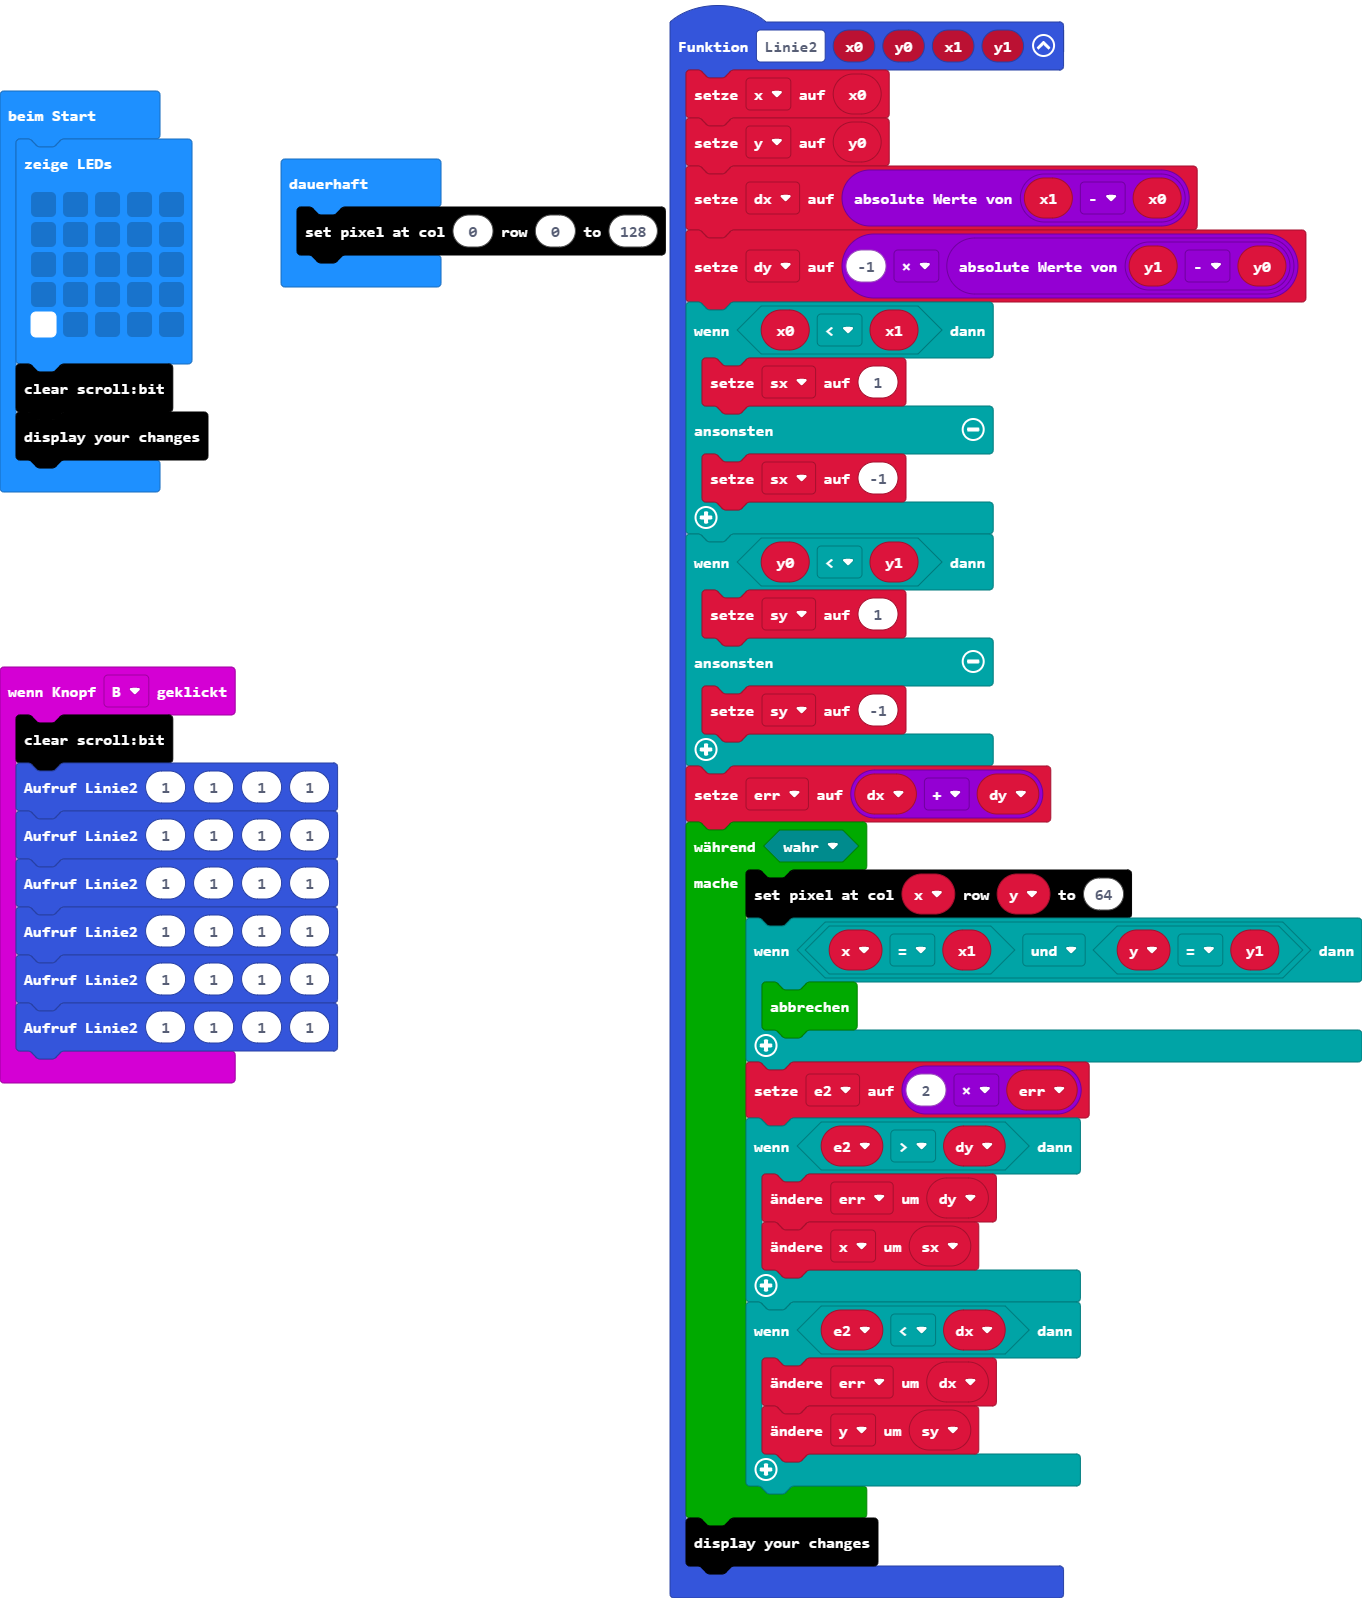
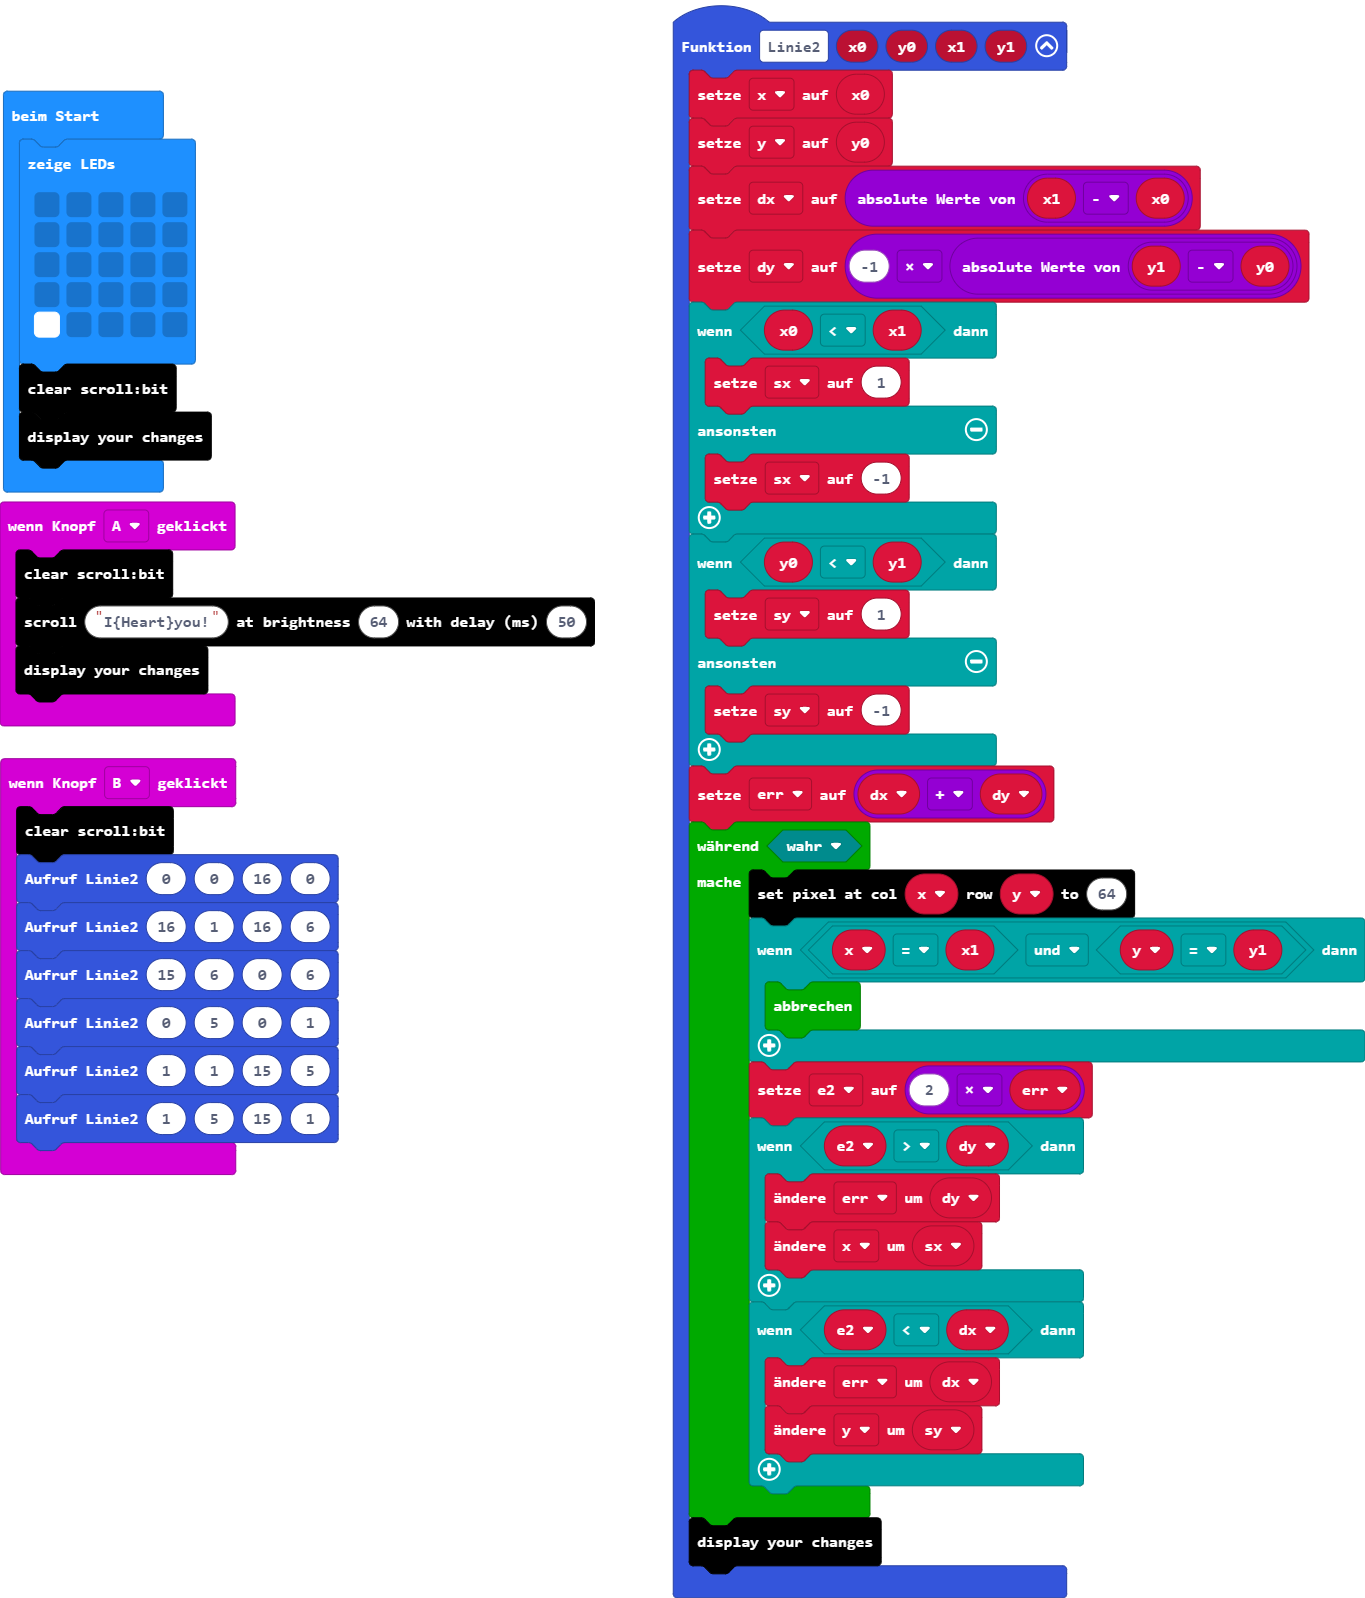
Aktualisiere main.blocks, main.ts

diff --git a/main.ts b/main.ts
@@ -1,11 +1,16 @@
+input.onButtonPressed(Button.A, function () {
+    scrollbit.clear()
+    scrollbit.scrollText("I{Heart}you!", 64, 50)
+    scrollbit.show()
+})
 input.onButtonPressed(Button.B, function () {
     scrollbit.clear()
-    Linie2(1, 1, 1, 1)
-    Linie2(1, 1, 1, 1)
-    Linie2(1, 1, 1, 1)
-    Linie2(1, 1, 1, 1)
-    Linie2(1, 1, 1, 1)
-    Linie2(1, 1, 1, 1)
+    Linie2(0, 0, 16, 0)
+    Linie2(16, 1, 16, 6)
+    Linie2(15, 6, 0, 6)
+    Linie2(0, 5, 0, 1)
+    Linie2(1, 1, 15, 5)
+    Linie2(1, 5, 15, 1)
 })
 function Linie2 (x0: number, y0: number, x1: number, y1: number) {
     x = x0
@@ -57,6 +62,3 @@ basic.showLeds(`
     `)
 scrollbit.clear()
 scrollbit.show()
-basic.forever(function () {
-    scrollbit.setPixel(0, 0, 128)
-})
